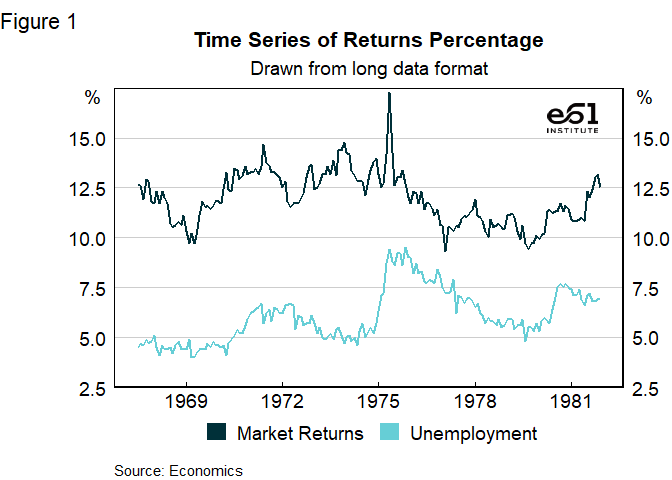
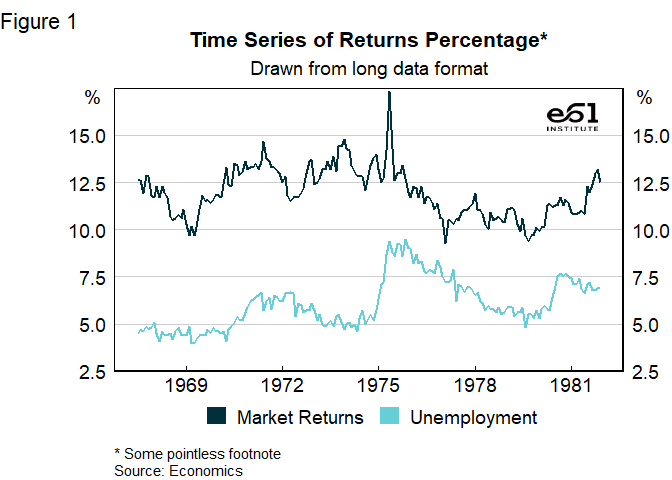
update readme to show off e61_labs

diff --git a/readme.md b/readme.md
@@ -56,10 +56,10 @@ mtcars2 <- within(mtcars, {
 # Graph
 p1 <- ggplot(mtcars2) +
   geom_point(aes(x = wt, y = mpg, colour = gear)) +
-  labs(
+  e61_labs(
     title = "Fuel Economy Declines as Weight Increases",
     subtitle = "1973-74",
-    caption = "Source: 1974 Motor Trend US magazine.",
+    sources = "1974 Motor Trend US magazine.",
     tag = "Figure 1",
     x = "Weight (1000 lbs)",
     y = "mpg",
@@ -97,10 +97,10 @@ p1 +
 ``` r
 g <- ggplot(mpg, aes(cty))
 g + geom_density(aes(fill = factor(cyl)), linetype = "blank", alpha = 0.8) +
-  labs(
+  e61_labs(
     title = "City Mileage Density",
     subtitle = "By number of cylinders",
-    caption = "Source: mpg dataset",
+    sources = "mpg dataset",
     x = "City mileage",
     tag = "Figure 1",
     y = "density",
@@ -131,10 +131,11 @@ lbls <- lubridate::year(brks)
 # plot
 ggplot(df, aes(x = date)) +
   geom_line(aes(y = value, colour = variable), size = 1) +
-  labs(
-    title = "Time Series of Returns Percentage",
+  e61_labs(
+    title = "Time Series of Returns Percentage*",
     subtitle = "Drawn from long data format",
-    caption = "Source: Economics",
+    footnotes = "Some pointless footnote",
+    sources = "Economics",
     tag = "Figure 1",
     x = NULL, y = "%",
     colour = NULL
@@ -163,7 +164,7 @@ ggplot(col_data, aes(x = index, y = hp, fill = hp)) +
   labs(
     title = "Frivolous Filled Column Chart", 
     subtitle = "For the purpose of showing off the continuous colour palette",
-    caption = "Source: e61 Institute",
+    sources = c("e61 Institute", "Another source"),
     x = NULL, y = "hp") +
   scale_y_continuous_e61(limits = c(0, 250)) +
   theme_e61(legend = "bottom") +
